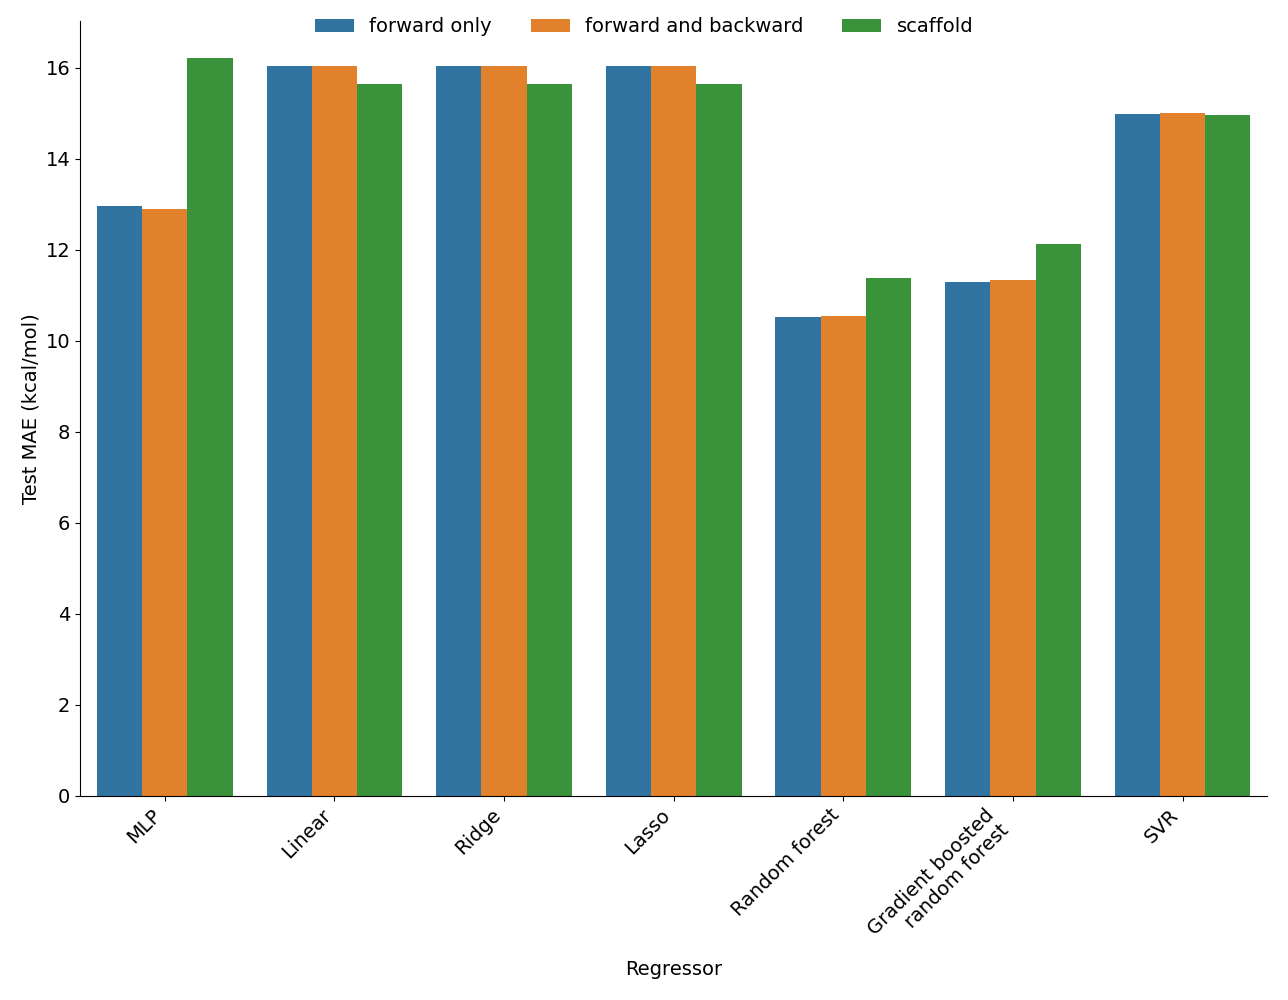
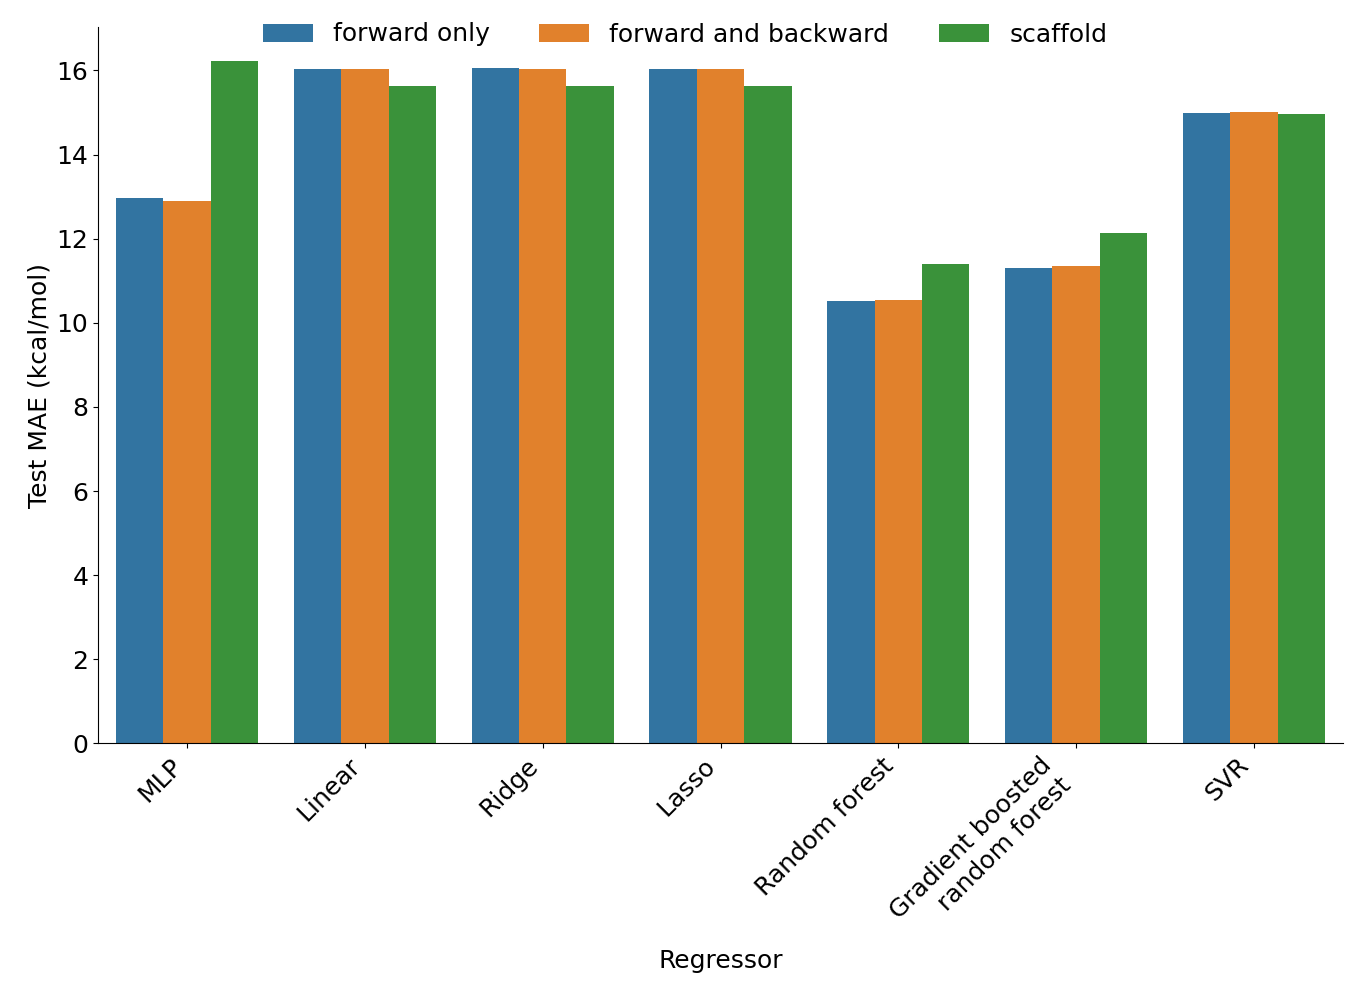
Increase font size

diff --git a/src/plot_results.py b/src/plot_results.py
@@ -10,7 +10,7 @@ RESULTS_FILES = ["results/forward only.csv",
                  "results/scaffold.csv"]
 
 def main():
-    plt.rcParams["font.size"] = 14
+    plt.rcParams["font.size"] = 18
 
     colnames = ["Test MAE", "Test MSE", "Test R^2"]
     ylabels = ["Test MAE (kcal/mol)",
